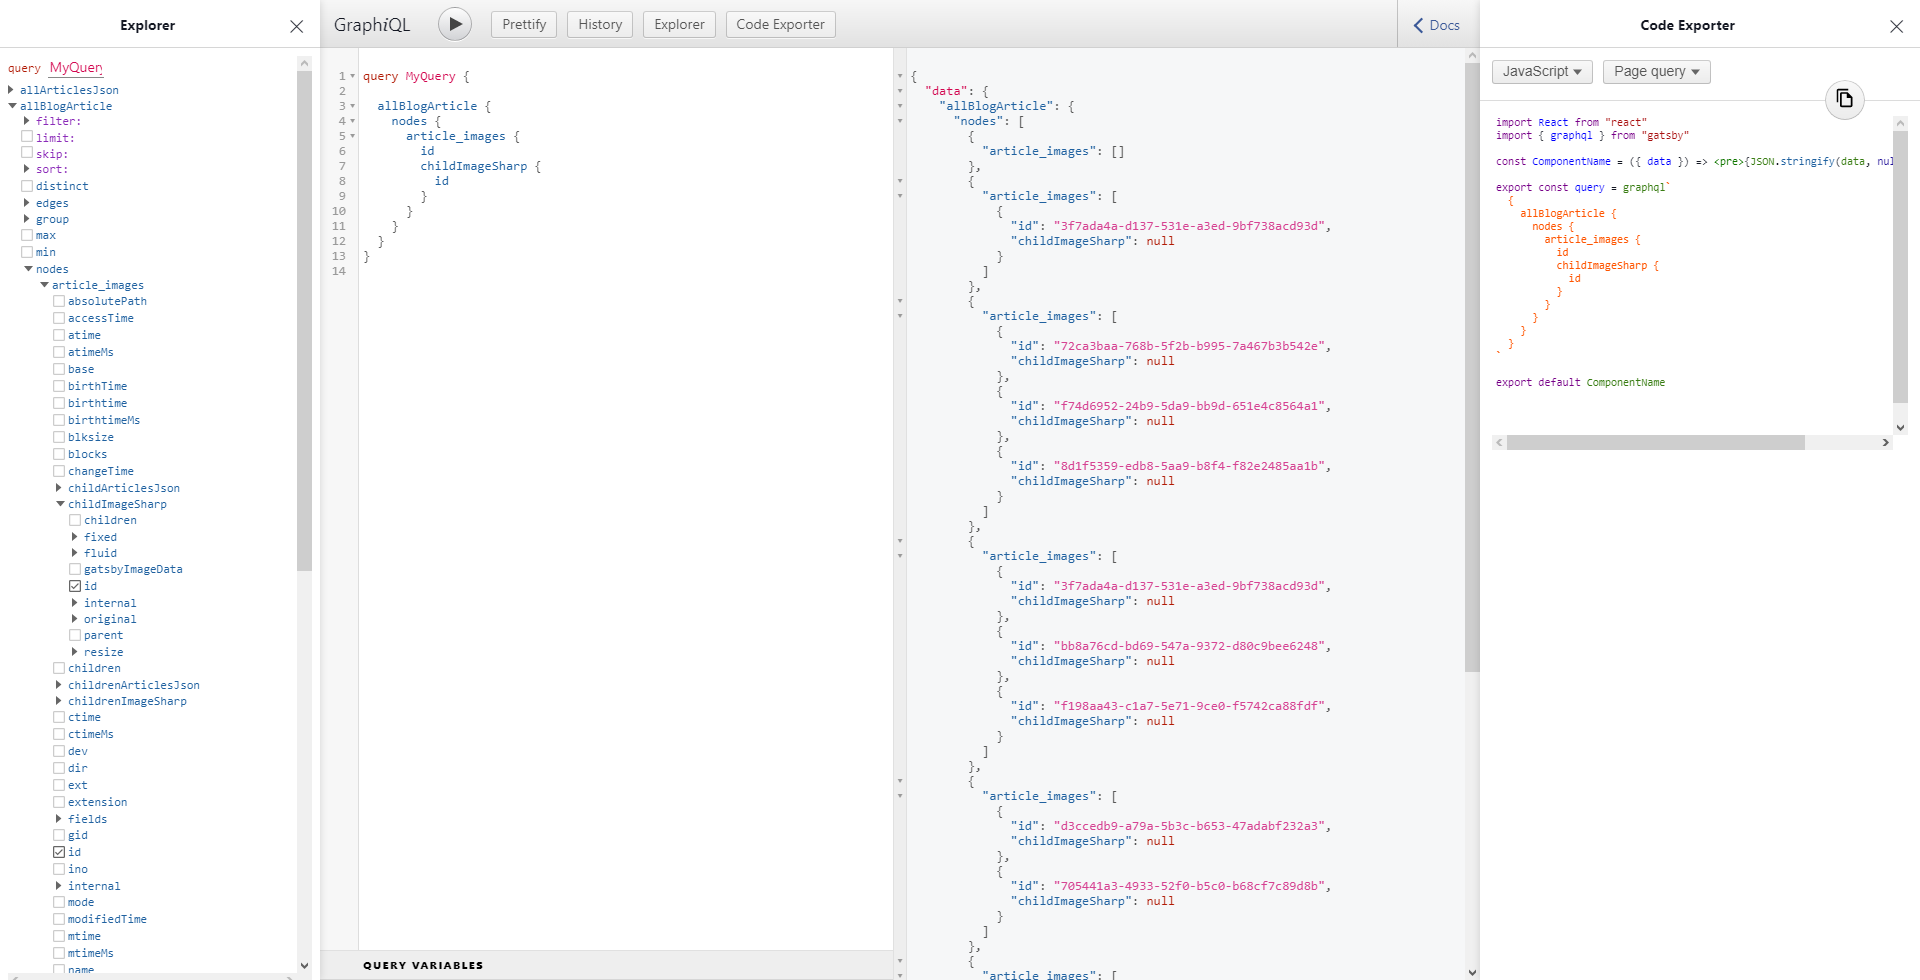
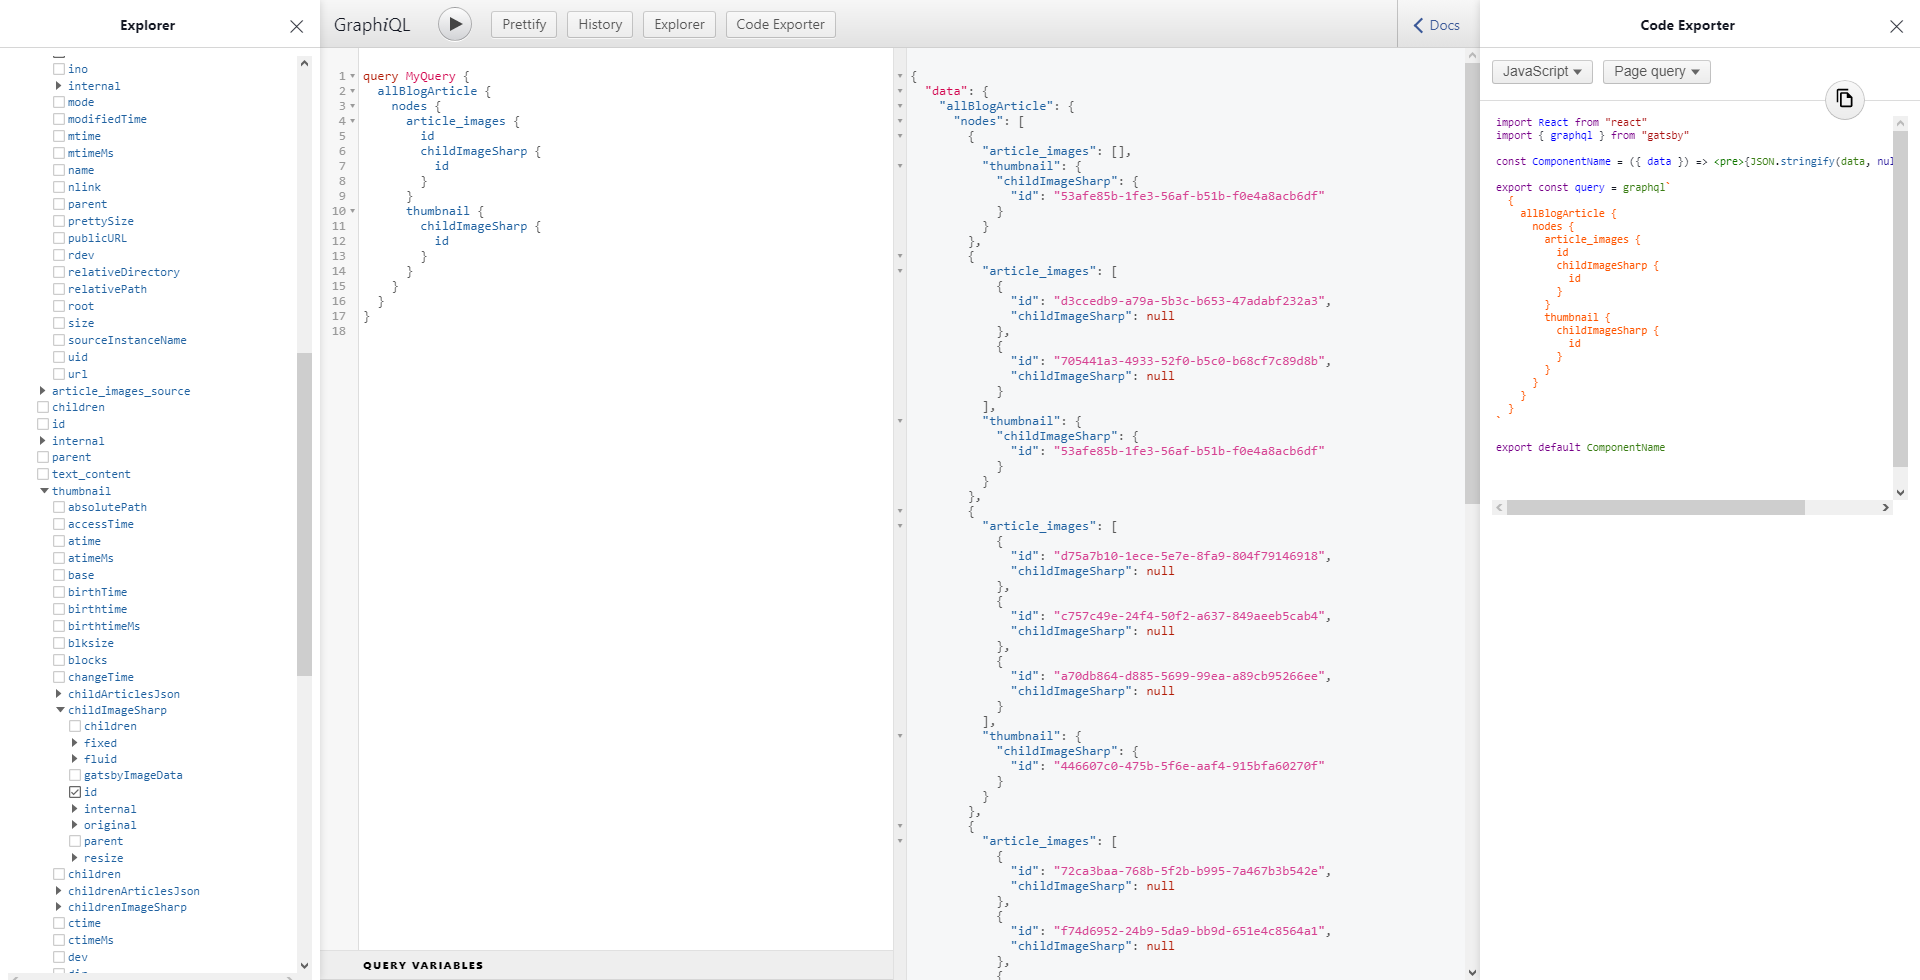
some additional info

diff --git a/README.md b/README.md
@@ -5,16 +5,19 @@ This demo repo is a modified clone of the `gatsby-starter-blog`.
 They get picked up by `gatsby-source-filesystem` and transformed into nodes by `gatsby-transformer-json`.
 
 Then in `gatsby-node.js` all articles get mapped and re-transformed into `BlogArticle`-nodes using the `sourceNodes` API.
-While doing this, the referenced images get pulled via `createRemoteFileNode` and they themselves get referenced to the `BlogArticle`-node, by mapping all image nodes that are created this way. Finally, they all get linked in `createSchemaCustomization`.
+While doing this, the referenced images get pulled via `createRemoteFileNode` and they themselves get referenced to the `BlogArticle`-node, by mapping all image nodes that are created this way.
+`const articleNode = await createNode({ article_images_source: images, article_images: all_article_image_nodes?.map(({ id }) => id), ... })`
+
+Finally, they all get linked in `createSchemaCustomization`.
 Like this:
 `type BlogArticle implements Node { article_images: [File] @link, thumbnail: File @link }`
 
 ## Breaking the build
 
 The first build (and all consecutive build w/out changes) will run just fine, all articles and images will show up. If you then however make a change to one of the `images`-arrays inside the `articles.json` file, all image links will break and the build will crash. I just cut one of the referenced images from the array and paste the whole object into the `blog-article.js` and comment it out, so I can alternate between the two version relatively hassle free...
-**DON'T paste it into the gatsby-node.js-file tho, since this will invalidate the cache and keep the build running!**
+**DON'T paste it into the gatsby-node.js-file though, since this will invalidate the cache and keep the build running!**
 
-`gatsby develop` will still run tho, giving a hint in whats going on:
+`gatsby develop` will still run, giving a hint in whats going on:
 
 ### Working gatsby dev:
 
@@ -24,10 +27,17 @@ Notice how all `article_images`-nodes have an ID and also each one has a `childI
 
 ### Crashing gatsby dev after changing the content:
 
-Notice how all `article_images`-nodes have an ID, but `childImageSharp` is always `null`
+Notice how all `article_images`-nodes have an ID, but `childImageSharp` is always `null`.
+One more very interesting fact: all `thumbnail` nodes are still there and all still have their `childImageSharp` referenced correctly.
 
 ![working](./readme-content/gatsby-dev-crashing.png)
 
-## My fix
+## My "fix"
 
 In `gatsby-node` you can see some commented code, that sort of manually gets cached image nodes and links those to the `BlogArticle`-nodes. You can see this working when you un-comment these lines (the code ones of course, not the "actual" comments 😉) and then build -> make said change to the `articles.json` -> DONT delete the cache or make a change to one of the API files -> rebuild w/ cache -> profit.
+
+## Additional info
+
+The flag `PRESERVE_FILE_DOWNLOAD_CACHE` is active, because in our production project, we're talking thousands of remotely stored images. Would be a shame to lose the cache every time someone adds a mere comment inside `gatsby-node.js`
+
+I did this re-transforming of already created json nodes, because in our production project, articles are stored in a Cloud-Storage and fetched when building, thus making this necessary for reproducing the error.
